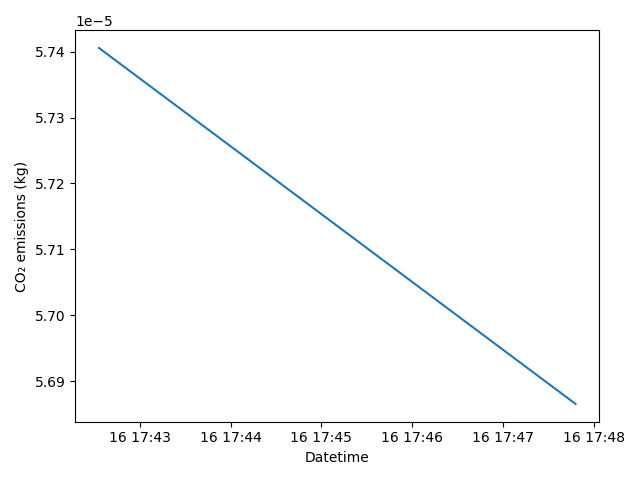
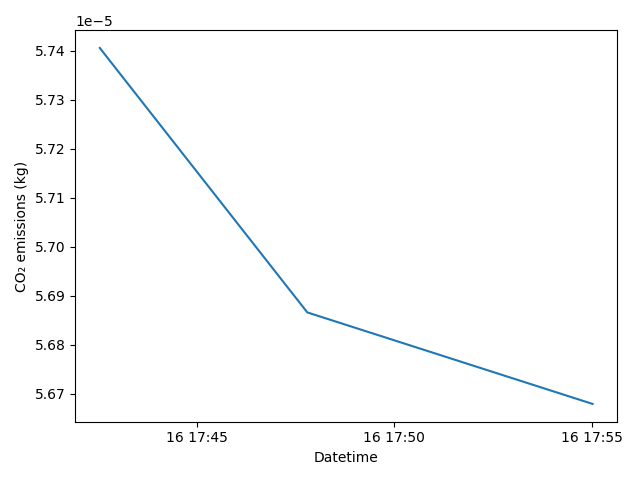
update emissions trend graph

diff --git a/README.md b/README.md
@@ -17,3 +17,9 @@ Last updated: 2025-05-16T16:34:47Z
 Last updated: 2025-05-16T17:42:33Z
 
 Last updated: 2025-05-16T17:47:50Z
+
+<!-- EMISSIONS_GRAPH -->
+![Emissions Over Time](codecarbon_artifacts/README_emissions_trend.png)
+<!-- END_EMISSIONS_GRAPH -->
+
+Last updated: 2025-05-16T17:55:04Z
